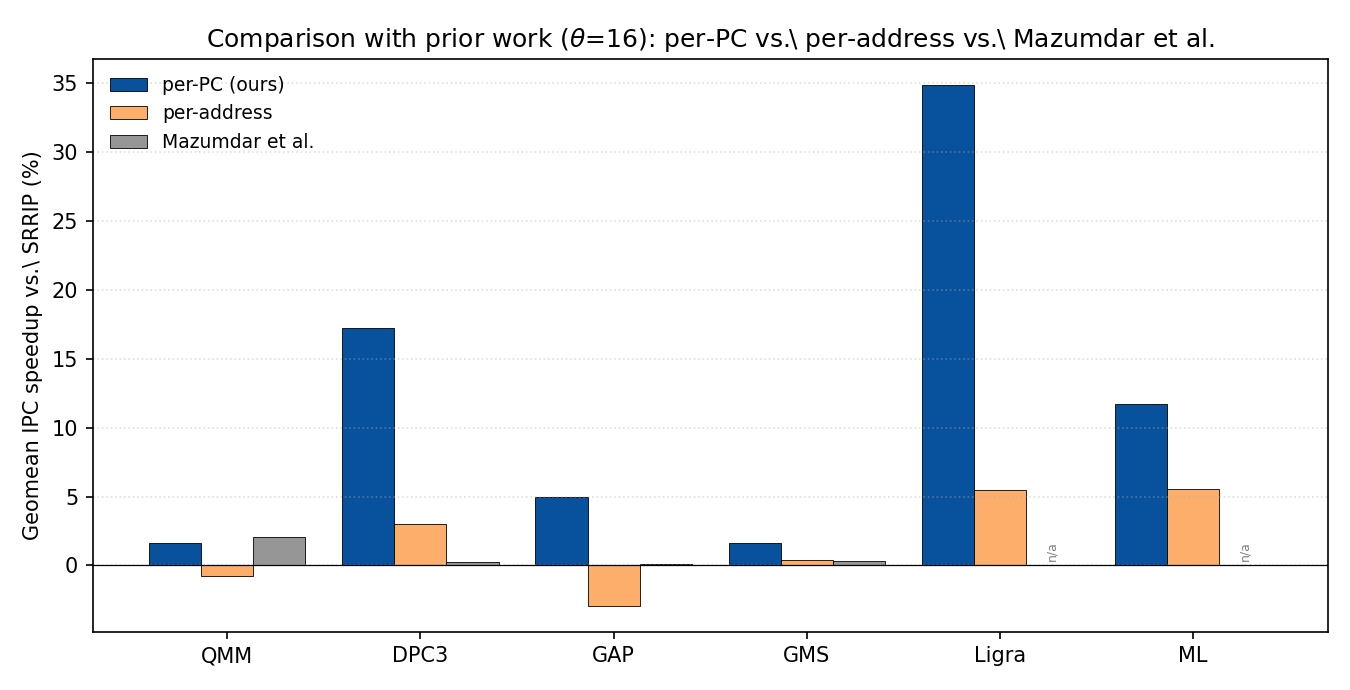
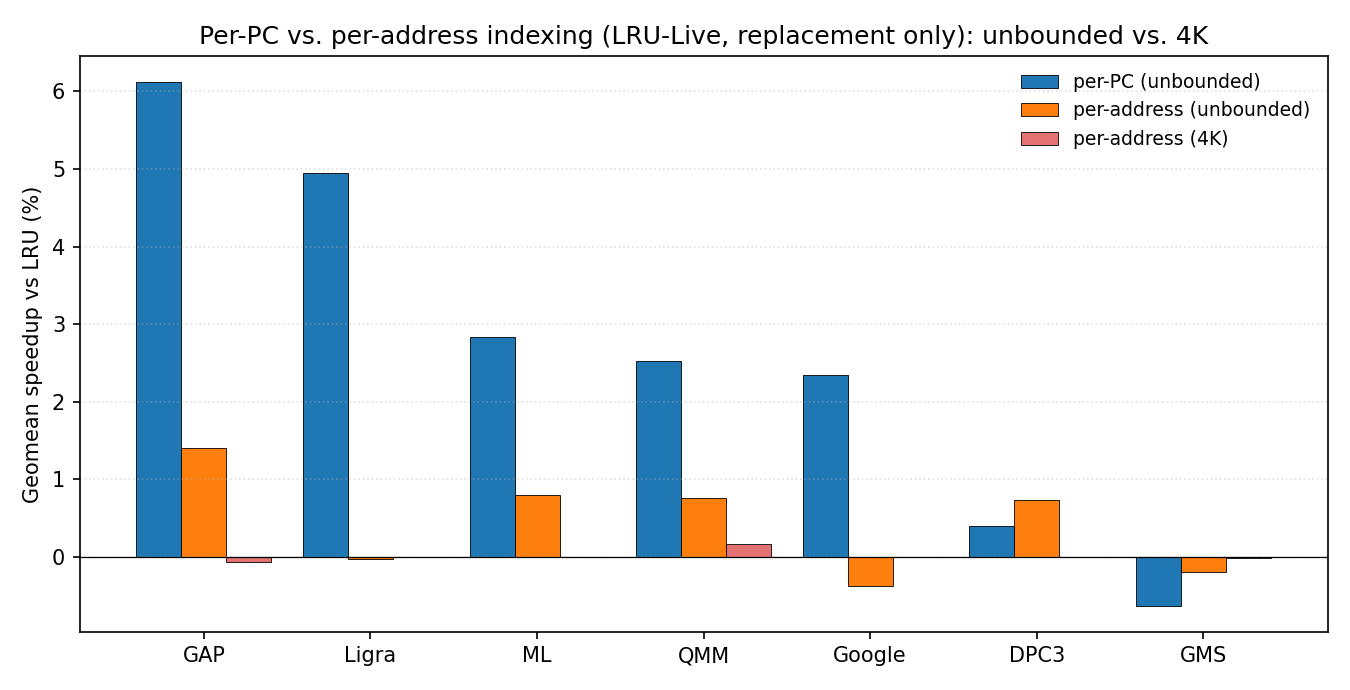
paper: replace Mazumdar comparison with per-PC vs per-address indexing (LRU-Live)
Figure 7 and its surrounding prose compared per-PC vs per-address vs
Mazumdar et al. under the combined bypass+replacement system vs SRRIP. That
figure was regenerated on 2026-07-01 to instead compare per-PC vs
per-address under LRU-Live's replacement guidance alone (no bypass), at
unbounded and 4,096-entry (4K) per-address capacities, vs LRU -- but the
regenerated PNG got stashed during a branch switch and never applied, and
the accompanying prose/caption edit was made directly in the working tree
and lost entirely (never staged, committed, or stashed) when a `git reset
--hard` dropped an unrelated misplaced commit on the same branch shortly
after.

This recovers the figure from the stash and rewrites the prose:
- Renamed the subsection from "Comparison with prior work" to "Per-PC vs.
  Per-Address Indexing" now that there's no more prior-work comparison.
- Removed all Mazumdar references (only remaining \cite{} in the paper --
  removing it left an empty bibliography, which doesn't compile; added
  \cite{champsim} at its two existing uncited mentions to fix this).
- Rewrote the discussion with the new numbers, reconstructed via pixel
  calibration from the recovered PNG (no script or raw data survived, so
  scripts/analysis/plot_paper_comparison.py is rebuilt from scratch against
  those reconstructed values).
- New finding worth keeping: SPEC's large per-PC advantage in the old
  combined-system figure (+17.3% vs +3.0%) collapses to near-parity here
[…]

diff --git a/results/paper/main.tex b/results/paper/main.tex
@@ -561,7 +561,7 @@ there.
 \section{Experimental Setup}
 % ─────────────────────────────────────────────────────────────────────────────
 
-We simulate with ChampSim using the configuration in
+We simulate with ChampSim~\cite{champsim} using the configuration in
 Table~\ref{tab:config}. Each trace runs for 50M warmup + 100M simulation
 instructions. Speedup is geomean IPC relative to \lru.
 Seven benchmark suites are summarised in Table~\ref{tab:suites}.
@@ -920,7 +920,7 @@ All experiments in this section use plain \srrip (no liveness guidance) as the
 baseline and report geomean IPC speedup over \srrip. Falling-weight scoring ($\delta = 5/3/1$ in \textsc{MA}/\textsc{MD}/\doa states) is
 used throughout, with $\theta_{\mathrm{doa}} = 6$ and
 $\theta_{\mathrm{dead}} = 10$, an unbounded PC-indexed history table, and the
-ChampSim configuration in Table~\ref{tab:config}. Six benchmark suites are
+ChampSim~\cite{champsim} configuration in Table~\ref{tab:config}. Six benchmark suites are
 evaluated using expanded trace sets: QMM (45 traces), SPEC LLC-pressured (35),
 GAP (9), GMS (11), Ligra (17), and ML (31), for a total of 148 traces.
 
@@ -1032,61 +1032,49 @@ ML    & $+11.87\%$ & $+8.80\%$  & $+11.70\%$ & $-8.97\%$ \\
 \end{tabular}
 \end{table}
 
-\subsection{Comparison with prior work}
-\label{sec:prior}
+\subsection{Per-PC vs.\ Per-Address Indexing}
+\label{sec:indexing}
 
-To contextualise our results we compare against two alternative systems:
-(i)~the same liveness-history approach with per-address rather than per-PC
-indexing, and (ii)~the combined dead-block / dead-page predictor of
-Mazumdar~et~al.~\cite{mazumdar2021}, which uses an address-indexed
-block-history table for LLC bypass (\texttt{cbpred}) coupled with STLB
-dead-page bypass (\texttt{dppred}) at a confidence threshold of six.
-Figure~\ref{fig:comparison} shows geomean speedup vs.\ \srrip for all three systems.
-In the per-address ablation every parameter is held constant except that the
-history table is keyed on cache-line address instead of load PC.
+To isolate the effect of history-table indexing granularity, we compare
+per-PC against per-address indexing under \lru-Live's replacement guidance
+alone (no bypass), at two per-address table capacities: unbounded and a
+4,096-entry (``4K'') bounded table. Figure~\ref{fig:comparison} shows geomean
+IPC speedup vs.\ \lru for all three configurations.
 
 \paragraph{Per-PC vs.\ per-address indexing.}
-Switching to address indexing collapses performance on streaming workloads.
-SPEC falls from $+17.3\%$ to $+3.0\%$ and Ligra from $+34.9\%$ to $+5.5\%$,
-both roughly $6\times$ worse.
-The cause is structural: streaming workloads touch millions of distinct cache-line
-addresses, each evicted after one use, so a per-address entry is rarely updated
-more than once before being displaced.
-A per-PC entry aggregates every fill issued by the same load instruction into a
-single counter; a streaming load that issues millions of dead-on-arrival fills
-reaches $\theta_{\mathrm{bypass}}=16$ in as few as four evictions in the MA state
-(since $\delta_{\mathbf{MA}}=5$).
+Per-PC indexing wins on every suite with a large distinct-address footprint:
+GAP ($+6.12\%$ vs.\ $+1.41\%$), Ligra ($+4.95\%$ vs.\ essentially $0\%$), ML
+($+2.83\%$ vs.\ $+0.80\%$), QMM ($+2.53\%$ vs.\ $+0.76\%$), and Google
+($+2.34\%$ vs.\ $-0.37\%$, where per-address indexing is actively harmful).
+The cause is structural, as with the bypass predictor (\S\ref{sec:perf}): a
+per-PC entry aggregates every fill issued by the same load instruction into a
+single counter, whereas a per-address entry on these workloads is rarely
+updated more than once before its block is evicted.
 
-QMM reverses the picture: per-address replacement guidance is actively harmful
-($-0.74\%$ combined) while per-PC achieves $+1.62\%$.
-Server workloads have few unique load PCs, each with a footprint exhibiting
-strong cache locality; a per-address table produces many low-count entries that
-do not discriminate well within any one PC's footprint, whereas per-PC correctly
-summarises the aggregate liveness behaviour of each instruction.
-GAP shows the same pattern: per-address replacement guidance alone is $-2.38\%$
-(harmful), dragging the combined result to $-2.94\%$.
+SPEC (DPC3) is the exception: per-PC guidance alone reaches only $+0.40\%$,
+and per-address edges slightly ahead at $+0.73\%$. This is a marked change
+from the combined bypass\,+\,replacement result (\S\ref{sec:perf}), where
+per-PC led SPEC by $+17.3\%$ to $+3.0\%$ --- indicating that per-PC's
+advantage there comes almost entirely from bypass (dead-on-arrival fills
+skipping the \llc), not from replacement guidance itself. GMS is negative
+under both indexing schemes ($-0.63\%$ per-PC, $-0.19\%$ per-address),
+consistent with replacement guidance contributing least there overall
+(Figure~\ref{fig:policy_comparison}).
 
-\paragraph{Mazumdar et~al.}
-Their address-indexed predictor achieves $+2.03\%$ on QMM, where high address
-reuse lets the block-history table accumulate confidence, but is neutral or
-negative on every suite driven by streaming bypass: $+0.28\%$ on SPEC, $+0.13\%$
-on GAP, and $+0.32\%$ on GMS.
-Their confidence-threshold mechanism cannot extract streaming speedups because
-individual addresses are not revisited frequently enough to cross the threshold.
-
-Our per-PC system reaches $+9.78\%$ across all 148~traces vs.\ \srrip.
-The $+0.41$ percentage-point gap at QMM ($+2.03\%$ vs.\ $+1.62\%$) is partly
-attributable to Mazumdar~et~al.\ including STLB-level bypass (\texttt{dppred})
-alongside their LLC predictor, a combination our evaluation does not yet include.
+Bounding the per-address table to 4,096 entries erodes what per-address gain
+remains, on every suite where it is visible: GAP falls from $+1.41\%$ to
+$-0.07\%$ and QMM from $+0.76\%$ to $+0.17\%$, both within a few tenths of a
+percentage point of zero. The per-PC table needs only 256 entries to reach
+its unbounded gain (\S\ref{sec:histrep}); this capacity sensitivity is
+specific to per-address indexing, where the distinct-address footprint is
+orders of magnitude larger than the distinct-PC footprint.
 
 \begin{figure}[t!]
 \centering
 \includegraphics[width=\linewidth]{../plots/paper_comparison.png}
-\caption{Geomean speedup vs.\ \srrip at $\theta_{\mathrm{bypass}}=16$: per-PC (ours,
-  combined bypass\,+\,replacement), per-address (same algorithm, address-indexed
-  history table), and Mazumdar~et~al.~\cite{mazumdar2021} (LLC \texttt{cbpred} +
-  STLB \texttt{dppred}). Overall (per-PC): $+9.78\%$. Mazumdar Ligra/ML pending full
-  trace completion.}
+\caption{Geomean IPC speedup vs.\ \lru: \lru-Live replacement guidance alone
+  (no bypass), per-PC vs.\ per-address history-table indexing, per-address
+  shown at both unbounded and 4,096-entry (4K) bounded capacity.}
 \label{fig:comparison}
 \end{figure}
 

diff --git a/scripts/analysis/plot_paper_comparison.py b/scripts/analysis/plot_paper_comparison.py
@@ -1,33 +1,34 @@
 #!/usr/bin/env python3
-"""Paper comparison with prior work: per-PC (ours) vs per-address (same algorithm)
-vs Mazumdar et al., geomean IPC speedup vs SRRIP at theta_bypass=16, per suite.
+"""LRU-Live replacement guidance alone (no bypass): per-PC vs per-address
+history-table indexing, per-address shown at unbounded and 4,096-entry (4K)
+bounded capacity. Geomean IPC speedup vs LRU, per suite.
 Output: results/plots/paper_comparison.png
+
+Values are reconstructed via pixel calibration from the only surviving copy
+of this figure (a git stash that predates this script) -- the run that
+produced them was never committed, so there is no raw data to recompute
+from. Suites with no visible 4K bar in that image are recorded as 0.0.
 """
 import matplotlib
 matplotlib.use("Agg")
 import matplotlib.pyplot as plt
 import numpy as np
 
-SUITES = ["QMM", "DPC3", "GAP", "GMS", "Ligra", "ML"]
-# SimPoint-weighted geomeans (DPC3=SPEC weighted; other suites equal-weight)
-PERPC  = [1.62, 17.27, 4.94, 1.63, 34.88, 11.70]
-PADDR  = [-0.74, 3.04, -2.94, 0.36, 5.46, 5.58]
-MAZ    = [2.03, 0.28, 0.13, 0.32, None, None]   # Ligra/ML pending
+SUITES   = ["GAP", "Ligra", "ML", "QMM", "Google", "DPC3", "GMS"]
+PERPC    = [6.12, 4.95, 2.83, 2.53, 2.34, 0.40, -0.63]        # per-PC, unbounded
+PADDR    = [1.41, -0.03, 0.80, 0.76, -0.37, 0.73, -0.19]      # per-address, unbounded
+PADDR_4K = [-0.07, 0.0, 0.0, 0.17, 0.0, 0.0, -0.02]           # per-address, 4096-entry cap
 
 x = np.arange(len(SUITES)); w = 0.27
 fig, ax = plt.subplots(figsize=(9, 4.6))
-ax.bar(x - w, PERPC, w, label="per-PC (ours)", color="#08519c", edgecolor="black", linewidth=0.4)
-ax.bar(x,     PADDR, w, label="per-address", color="#fdae6b", edgecolor="black", linewidth=0.4)
-maz_vals = [v if v is not None else 0 for v in MAZ]
-ax.bar(x + w, maz_vals, w, label="Mazumdar et al.", color="#969696", edgecolor="black", linewidth=0.4)
-for xi, v in zip(x, MAZ):
-    if v is None:
-        ax.annotate("n/a", (xi + w, 0.3), ha="center", va="bottom", fontsize=6, color="grey", rotation=90)
+ax.bar(x - w, PERPC, w, label="per-PC (unbounded)", color="#1f77b4", edgecolor="black", linewidth=0.4)
+ax.bar(x,     PADDR, w, label="per-address (unbounded)", color="#ff7f0e", edgecolor="black", linewidth=0.4)
+ax.bar(x + w, PADDR_4K, w, label="per-address (4K)", color="#e47273", edgecolor="black", linewidth=0.4)
 ax.axhline(0, color="black", linewidth=0.6)
 ax.set_xticks(x); ax.set_xticklabels(SUITES)
-ax.set_ylabel("Geomean IPC speedup vs.\\ SRRIP (%)")
-ax.set_title("Comparison with prior work ($\\theta$=16): per-PC vs.\\ per-address vs.\\ Mazumdar et al.")
-ax.legend(frameon=False, fontsize=9, loc="upper left")
+ax.set_ylabel("Geomean speedup vs LRU (%)")
+ax.set_title("Per-PC vs. per-address indexing (LRU-Live, replacement only): unbounded vs. 4K")
+ax.legend(frameon=False, fontsize=9, loc="upper right")
 ax.grid(axis="y", linestyle=":", alpha=0.4)
 fig.tight_layout()
 out = "results/plots/paper_comparison.png"
